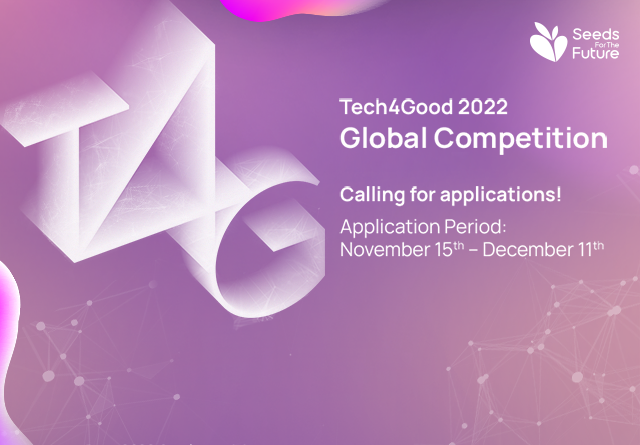
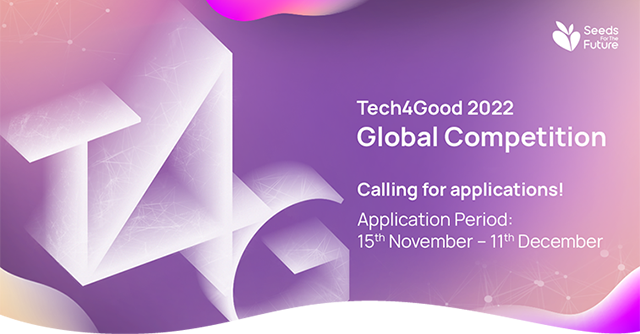
20221022

diff --git a/edm_huawei/en/index.html b/edm_huawei/en/index.html
@@ -214,10 +214,10 @@
       line-height: 100%;
     }
 
-    .darkmode-switch {
+    /* .darkmode-switch {
         background-image:url(https://d-tmt.com/edm_huawei/en/images/bg.png) !important;
         background-color:#EAEAEB !important;
-    }
+    } */
   </style>
 </head>
 
@@ -251,8 +251,8 @@
                       <tr>
                         <td align="left" class="sf-img sf-td"
                           style="border-collapse: collapse; mso-table-lspace: 0pt; mso-table-rspace: 0pt; -ms-text-size-adjust: 100%; -webkit-text-size-adjust: 100%; padding-top: 0px; padding-right: 0px; padding-bottom: 0px; padding-left: 0px;"><img
-                            src="https://d-tmt.com/edm_huawei/en/images/kv.png" alt="2021 Tech4Good Global Competition" width="640" height="445" align="center"
-                            style="display: block; -ms-interpolation-mode: bicubic; width: 100%; max-width: 100%; height: 445px; border: 0px solid #ffffff; border-radius: 0px; background-color: transparent;" /></td>
+                            src="https://d-tmt.com/edm_huawei/en/images/kv.png" alt="2021 Tech4Good Global Competition" width="640" height="334" align="center"
+                            style="display: block; -ms-interpolation-mode: bicubic; width: 100%; max-width: 100%; height: 334px; border: 0px solid #ffffff; border-radius: 0px; background-color: transparent;" /></td>
                       </tr>
                     </table>
                   </td>
@@ -262,7 +262,7 @@
               <table border="0" cellpadding="0" cellspacing="0" width="100%"
                 style="table-layout: fixed; border: 0px; border-collapse: collapse; mso-table-lspace: 0pt; mso-table-rspace: 0pt; -ms-text-size-adjust: 100%; -webkit-text-size-adjust: 100%; border: 0px solid transparent;">
                 <tr>
-                  <td class="sf-td darkmode-switch" valign="top" style="border-collapse: collapse; mso-table-lspace: 0pt; mso-table-rspace: 0pt; -ms-text-size-adjust: 100%; -webkit-text-size-adjust: 100%; border: 0px solid transparent; width: 100%; background: url(https://d-tmt.com/edm_huawei/en/images/bg.png) #B5CFE3; background-size:100%; background-position:top; background-repeat: no-repeat;">
+                  <td class="sf-td" valign="top" style="border-collapse: collapse; mso-table-lspace: 0pt; mso-table-rspace: 0pt; -ms-text-size-adjust: 100%; -webkit-text-size-adjust: 100%; border: 0px solid transparent; width: 100%;">
                     <table border="0" cellpadding="0" cellspacing="0" width="100%"
                       style="table-layout: fixed; border: 0px; border-collapse: collapse; mso-table-lspace: 0pt; mso-table-rspace: 0pt; -ms-text-size-adjust: 100%; -webkit-text-size-adjust: 100%;">
                       <tr>
@@ -310,7 +310,7 @@
                         <td class="sf-html sf-td"
                           style="padding-top: 0; padding-right: 85px; padding-left: 85px; padding-top: 20px; border-collapse: collapse; mso-table-lspace: 0pt; mso-table-rspace: 0pt; -ms-text-size-adjust: 100%; -webkit-text-size-adjust: 100%;">
                           <p style="color: #ffffff!important;font-family: Arial;font-size: 15px;mso-line-height-rule: exactly;line-height: 125%;font-weight: normal;font-style: normal;text-transform: none;margin-top: 0em;margin-left: 0;margin-right: 0;margin-bottom: 0em; padding-bottom: 5px; text-align: left">
-                            <span style="color: #ffecc3">Application period:</span> 15<sup>th</sup> November to 11th December 2022 </a>
+                            <span style="color: #ffecc3">Application period:</span> 15<sup>th</sup> November to 11<sup>th</sup> December 2022 </a>
                           </p>
                           <p style="color: #ffffff!important;font-family: Arial;font-size: 15px;mso-line-height-rule: exactly;line-height: 125%;font-weight: normal;font-style: normal;text-transform: none;margin-top: 0em;margin-left: 0;margin-right: 0;margin-bottom: 0em; padding-bottom: 5px; text-align: left">
                             <span style="color: #ffecc3">Final Competition Day:</span> 5<sup>th</sup> January 2023</a>
@@ -439,7 +439,7 @@
                           style="padding-top: 26px; padding-right: 85px; padding-left: 85px; border-collapse: collapse; mso-table-lspace: 0pt; mso-table-rspace: 0pt; -ms-text-size-adjust: 100%; -webkit-text-size-adjust: 100%;">
                           <p
                             style="color: #ffffff!important;font-family: Arial;font-size: 15px;mso-line-height-rule: exactly;line-height: 125%;font-weight: normal;font-style: normal;text-transform: none;margin-top: 0em;margin-left: 0;margin-right: 0;margin-bottom: 0em;padding: 0; text-align: left">
-                            Visit our website for more information about the Tech4Good global competition:</p>
+                            Visit our <a href="https://www.huawei.com/minisite/seeds-for-the-future/Tech4Good.html" target="_blank" style="color: #000000;">website</a> for more information about the Tech4Good global competition:</p>
                         </td>
                       </tr>
 
@@ -459,7 +459,7 @@
 
                       <tr>
                         <td class="sf-html sf-td"
-                          style="padding-top: 26px; padding-right: 85px; padding-bottom: 225px; padding-left: 85px; border-collapse: collapse; mso-table-lspace: 0pt; mso-table-rspace: 0pt; -ms-text-size-adjust: 100%; -webkit-text-size-adjust: 100%;">
+                          style="padding-top: 26px; padding-right: 85px; padding-bottom: 0; padding-left: 85px; border-collapse: collapse; mso-table-lspace: 0pt; mso-table-rspace: 0pt; -ms-text-size-adjust: 100%; -webkit-text-size-adjust: 100%;">
                           <p
                             style="color: #ffffff!important;font-family: Arial;font-size: 15px;mso-line-height-rule: exactly;line-height: 125%;font-weight: normal;font-style: normal;text-transform: none;margin-top: 0em;margin-left: 0;margin-right: 0;margin-bottom: 0em;padding: 0; text-align: left">
                             If you have any questions, please email us at seeds@huawei.com or info@pimchina.org</p>
@@ -473,7 +473,7 @@
 
 
 
-              <!-- <table border="0" cellpadding="0" cellspacing="0" width="100%"
+              <table border="0" cellpadding="0" cellspacing="0" width="100%"
                 style="table-layout: fixed; border: 0px; border-collapse: collapse; mso-table-lspace: 0pt; mso-table-rspace: 0pt; -ms-text-size-adjust: 100%; -webkit-text-size-adjust: 100%; border: 0px solid transparent;">
                 <tr>
                   <td class="sf-td" valign="top" style="border-collapse: collapse; mso-table-lspace: 0pt; mso-table-rspace: 0pt; -ms-text-size-adjust: 100%; -webkit-text-size-adjust: 100%; border: 0px solid transparent; width: 100%;">
@@ -482,13 +482,13 @@
                       <tr>
                         <td align="left" class="sf-img sf-td"
                           style="border-collapse: collapse; mso-table-lspace: 0pt; mso-table-rspace: 0pt; -ms-text-size-adjust: 100%; -webkit-text-size-adjust: 100%; padding-top: 0px; padding-right: 0px; padding-bottom: 0px; padding-left: 0px;"><img
-                            src="https://rw-digital.net/preview9/edm/edm_huawei/en/images/footer2.png?v=3" alt="" width="640" height="187" align="center"
-                            style="display: block; -ms-interpolation-mode: bicubic; width: 100%; max-width: 100%; height: 187px; border: 0px solid #ffffff; border-radius: 0px; background-color: transparent;" /></td>
+                            src="https://d-tmt.com/edm_huawei/en/images/footer.png" alt="" width="640" height="210" align="center"
+                            style="display: block; -ms-interpolation-mode: bicubic; width: 100%; max-width: 100%; height: 210px; border: 0px solid #ffffff; border-radius: 0px; background-color: transparent;" /></td>
                       </tr>
                     </table>
                   </td>
                 </tr>
-              </table> -->
+              </table>
             </td>
           </tr>
         </table>
